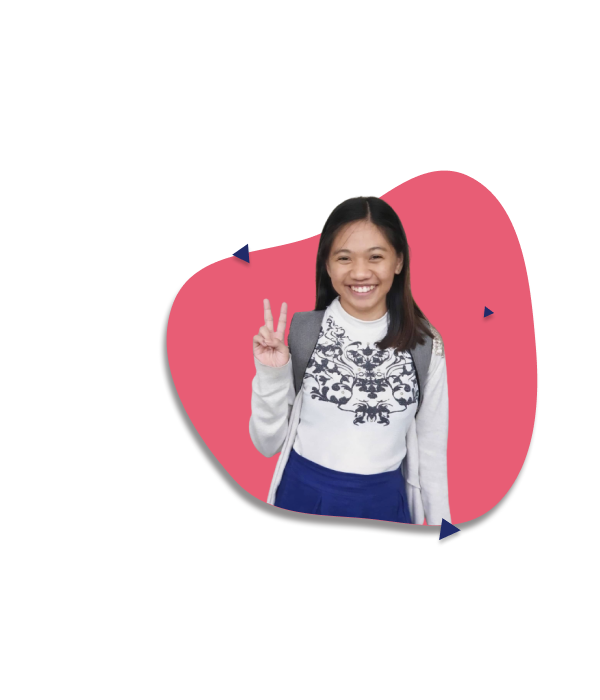
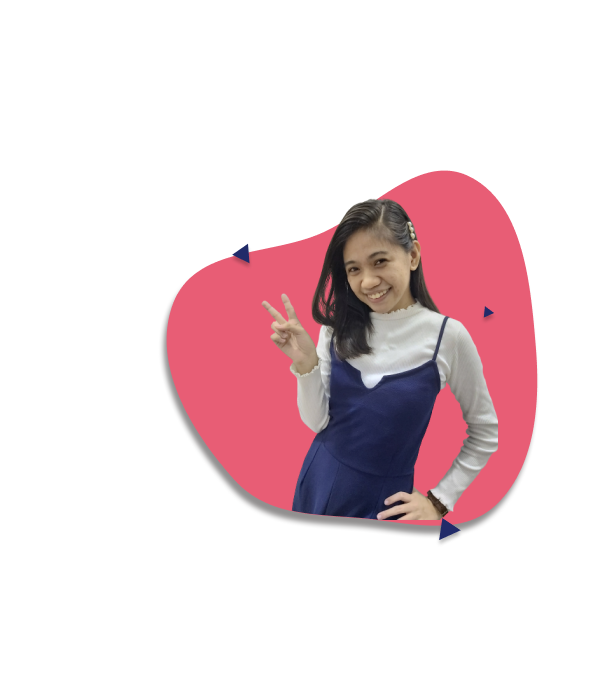
completed work section

Changed region(s): [[0.39, 0.27, 0.84, 0.75]]

diff --git a/index.html b/index.html
@@ -4,7 +4,7 @@
 	<meta charset="utf-8">
     <meta name="viewport" content= "width=device-width, initial-scale=1.0"> 
 
-	<title>kgmacaraig-Portfolio</title>
+	<title>kgmacaraig - Personal Portfolio</title>
 	<!-- bootstrap -->
 	<link rel="stylesheet" href="https://maxcdn.bootstrapcdn.com/bootstrap/4.0.0/css/bootstrap.min.css" integrity="sha384-Gn5384xqQ1aoWXA+058RXPxPg6fy4IWvTNh0E263XmFcJlSAwiGgFAW/dAiS6JXm" crossorigin="anonymous">
 
@@ -54,31 +54,31 @@
 		<section id="home">
 			<div class="homeContainer">
 				<h2>hi.</h2>
-				<h3>I'm Khars</h3>
-				<h4>A highchool computer teacher working at UPRHS</h4>
+				<h3>I'm <span>Khars</span></h3>
+				<h4>A highchool computer teacher working <span>at UPRHS</span></h4>
 			</div>
 		</section>
 		<section id="aboutMe">
 			<div class="aboutMeContainer">
 				<div class="container">
 					<div class="row">
-						<div class="col-lg-4 mb-2">
-							<img class="profilePic" src="images/removedBg/profile.png" alt="profile picture">
+						<div class="col-lg-5 mb-2 sideProfile">
+							<img class="profilePic" src="images/removedBg/side.png" alt="profile picture">
 						</div>
-						<div class="col-lg-8 mb-2">
+						<div class="col-lg-7 mb-2 introduction">
 							<br><h3 class="intro">Hi! I am <span>Khars</span>.</h3>
 							<h4 class="intro">I am a student, an educator, and a developer.</h4>
 							<p class="text-muted">I am a Computer Science graduate from the University of the Philippines Los Baños. Currently, I am a <span>Master of Information Technology student</span> in the same university. Aside from being a student, I work as an educator as well. I teach <span>Introduction to Information Technology</span> and <span>Web Development</span> to grades 7 and 9, respectively.<br><br>Most projects I have worked or am currently working on include school and classroom related applications which involved <span>UI/UX Design and Web Development, Image Processing, Data Science, and Information Systems</span>.</p>
-							<br>
+							<br><br>
 							<h1 class="cursive">Kharisa Mae G. Macaraig</h1>
 							<div class="link">
-								<button class="contacts-btn"><a href="#">
+								<button class="contacts-btn"><a href="https://github.com/karsmae" target="_blank">
 									<i class="fa fa-github" aria-hidden="true"></i>
 								</a></button>	
-								<button class="contacts-btn"><a href="#">
+								<button class="contacts-btn"><a href="https://www.linkedin.com/in/kharisa-mae-macaraig-b2b293137/" target="_blank">
 									<i class="fa fa-linkedin" aria-hidden="true"></i>
 								</a></button>
-								<button class="contacts-btn"><a href="#">
+								<button class="contacts-btn"><a href="mailto:kgmacaraig@up.edu.ph&subject=Mail from personal portfolio">
 									<i class="fa fa-envelope" aria-hidden="true"></i>
 								</a></button>
 							</div>
@@ -103,7 +103,7 @@
 									<div class="card-body">
 										<img src="images/heart.png" alt="finger heart" class="about-img">
 										<h2 class="card-title centered">love</h2>
-										<p class="card-text">a collection of everything I love</p>
+										<p class="card-text">a collection of everything I love since then</p>
 									</div>
 								</div>
 							</div>
@@ -113,7 +113,7 @@
 										<div class="card-body">
 											<img src="images/ok.png" alt="okay sign" class="about-img">
 											<h2 class="card-title centered">play</h2>
-											<p class="card-text">things I do when I am not coding</p>
+											<p class="card-text">other things I do when I am not coding</p>
 										</div>
 									</a>
 								</div>
@@ -188,21 +188,21 @@
 					</div>
 				</div>
 			</div>
+			<footer>
+				<div>&copy; kgmacaraig 2020</div>
+				<div class="footer-link">
+					<button class="contacts-btn"><a href="https://github.com/karsmae" target="_blank">
+						<i class="fa fa-github" aria-hidden="true"></i>
+					</a></button>	
+					<button class="contacts-btn"><a href="https://www.linkedin.com/in/kharisa-mae-macaraig-b2b293137/" target="_blank">
+						<i class="fa fa-linkedin" aria-hidden="true"></i>
+					</a></button>
+					<button class="contacts-btn"><a href="mailto:kgmacaraig@up.edu.ph&subject=Mail from personal portfolio">
+						<i class="fa fa-envelope" aria-hidden="true"></i>
+					</a></button>
+				</div>
+			</footer>
 		</section>
-		<footer>
-			<div>&copy; kgmacaraig 2020</div>
-			<div class="footer-link">
-				<button class="contacts-btn"><a href="#">
-					<i class="fa fa-github" aria-hidden="true"></i>
-				</a></button>	
-				<button class="contacts-btn"><a href="#">
-					<i class="fa fa-linkedin" aria-hidden="true"></i>
-				</a></button>
-				<button class="contacts-btn"><a href="#">
-					<i class="fa fa-envelope" aria-hidden="true"></i>
-				</a></button>
-			</div>
-		</footer>
 	</main>
 
 	<!-- bootstrap -->

diff --git a/css/sections.css b/css/sections.css
@@ -20,11 +20,11 @@ section:nth-child(2), section:nth-child(3), section:nth-child(4){
 }
 
 #aboutMe{
-	min-height: 55vh;
+	min-height: 65vh;
 }
 
 #about{
-	min-height: 5vh;
+	min-height: 10vh;
 }
 
 .card-title{
@@ -45,6 +45,7 @@ section:nth-child(2), section:nth-child(3), section:nth-child(4){
 .homeContainer{
 	background-color: transparent;
 	width: 100%;
+	padding: 2%;
 	color: #231F20;
 }
 
@@ -55,12 +56,15 @@ section:nth-child(2), section:nth-child(3), section:nth-child(4){
 .homeContainer h3, #about p{
 	color: #202A6A;
 }
+
+.homeContainer span{
+	color: #ffffff;
+}
 /*---------s: home---------*/
 
 /*---------s:about---------*/
 .aboutMeContainer{
 	width: 95%;
-	margin-top: 5vh;
 }
 
 .about-title h1, #work h1{
@@ -78,10 +82,8 @@ section:nth-child(2), section:nth-child(3), section:nth-child(4){
 	color: #231F20 !important;
 }
 
-.profilePic{
+img.profilePic{
 	height: 55vh;
-	position: relative;
-	bottom: 0;
 }
 
 .about-title, .about-desc, .profilePic, .about-img, .link, .project-title, .cursive{
@@ -180,9 +182,13 @@ section:nth-child(2), section:nth-child(3), section:nth-child(4){
 footer{
 	text-align: center;
 	background-color: #E85D75;
-	padding: 5%;
+	padding: 2%;
 	color: #ffffff !important;
-	height: 25vh;
+	height: 15vh;  
+	position: absolute;
+	left: 0;
+	bottom: 0;
+	width: 100%;
 }
 
 footer .contacts-btn{
@@ -201,10 +207,6 @@ footer .contacts-btn:hover{
 		margin: 2vw;
 	}
 
-	.aboutContainer, .aboutMeContainer{
-		margin: 5vw;
-	}
-
   	.homeContainer h2{
 		font-size: 30vw;
 	}
@@ -217,6 +219,38 @@ footer .contacts-btn:hover{
 
 	.homeContainer h4{
 		font-size: 2.78vw;
+	}
+
+	.aboutContainer, .aboutMeContainer{
+		margin: 5vw;
+	}
+
+	#aboutMe{
+		min-height: 45vh;
+	}
+
+	#work h4, #aboutMe h3, #aboutMe h4{
+		font-size: 1rem;
+	}
+
+	#work h4{
+		font-weight: bolder;
+	}
+
+	#aboutMe p{
+		font-size: 0.75rem;
+	}
+
+	.aboutContainer{
+		margin-top: -10vh;
+	}
+
+	.aboutContainer h2, .aboutContainer p{
+		font-size: 0.85rem;
+	}
+
+	.workContainer{
+		margin-top: 10vh;
 	}
 
 }
@@ -239,6 +273,23 @@ footer .contacts-btn:hover{
 
 	.homeContainer h4{
 		font-size: 2.2vw;
+		color: #231F20 !important;
+	}
+
+	.homeContainer h3 span{
+		color: #202A6A !important;
+	}
+
+	.homeContainer h4 span{
+		color: #231F20 !important;
+	}
+
+	.aboutMeContainer{
+		margin-top: 5vh;
+	}
+
+	.aboutContainer{
+		margin-top: -8vh;
 	}
 
 } 
@@ -271,6 +322,10 @@ footer .contacts-btn:hover{
 		color: #E85D75;
 	}
 
+	.homeContainer h3 span{
+		color: #E85D75 !important;
+	}
+
 	.homeContainer h4{
 		font-size: 1.3vw;
 	}
@@ -283,6 +338,14 @@ footer .contacts-btn:hover{
 		background-image: url(../images/overlay.png);
 	}
 
+	.sideProfile{
+		margin-bottom: -0.5rem !important;
+	}
+
+	img.profilePic{
+		margin-top: 9.5rem;
+	}
+
 	.profilePic, .cursive, .link, .about-title, .about-desc, .project-title{
 		display: flex;
 	}
@@ -293,11 +356,17 @@ footer .contacts-btn:hover{
 	}
 
 	.aboutCards{
-		margin-top: 3%;
+		margin-top: 10vh;
 	}
 
 	.about-title h1, #work h1{
 		text-align: right;
+	}
+
+	.introduction{
+		margin-top: 10vh;
+		margin-bottom: 2vh;
+		height: 35vh;
 	}
 
 	.wave,.splitHorizon{

diff --git a/html/about-unplugged.html b/html/about-unplugged.html
@@ -4,7 +4,7 @@
 	<meta charset="utf-8">
     <meta name="viewport" content= "width=device-width, initial-scale=1.0"> 
 
-	<title>kgmacaraig-Unplugged</title>
+	<title>kgmacaraig - Unplugged</title>
 	<!-- bootstrap -->
 	<link rel="stylesheet" href="https://maxcdn.bootstrapcdn.com/bootstrap/4.0.0/css/bootstrap.min.css" integrity="sha384-Gn5384xqQ1aoWXA+058RXPxPg6fy4IWvTNh0E263XmFcJlSAwiGgFAW/dAiS6JXm" crossorigin="anonymous">
 
